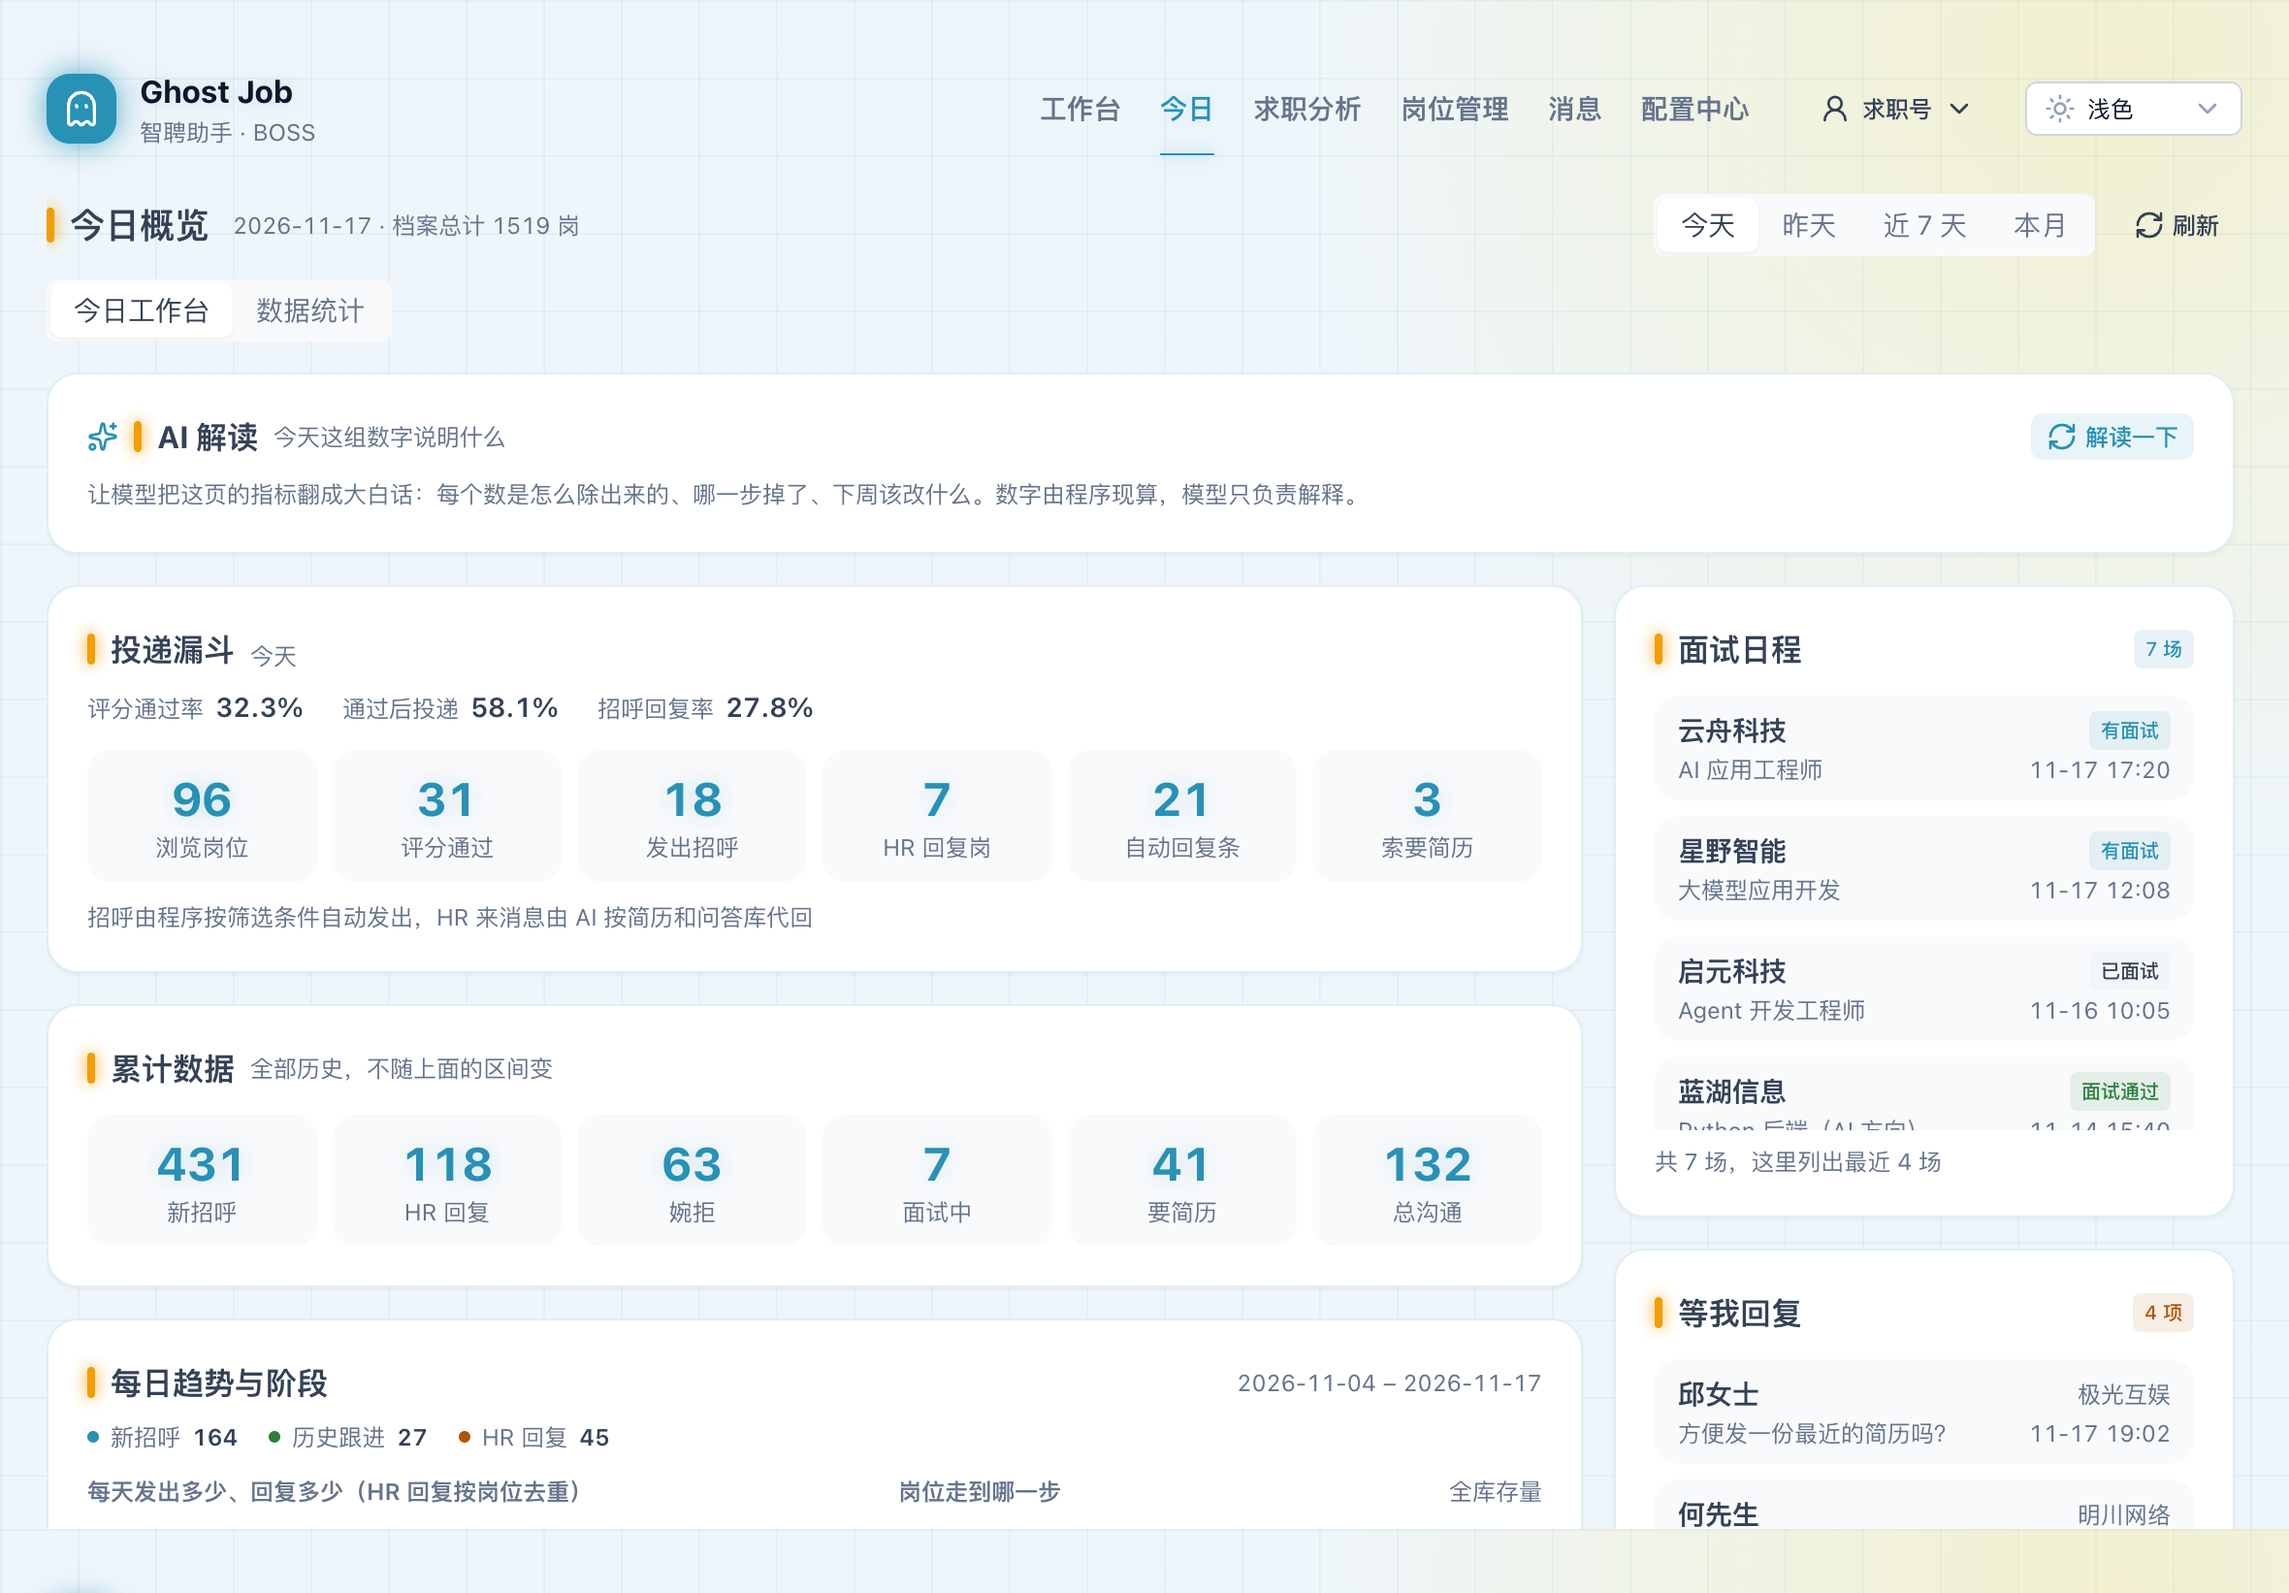
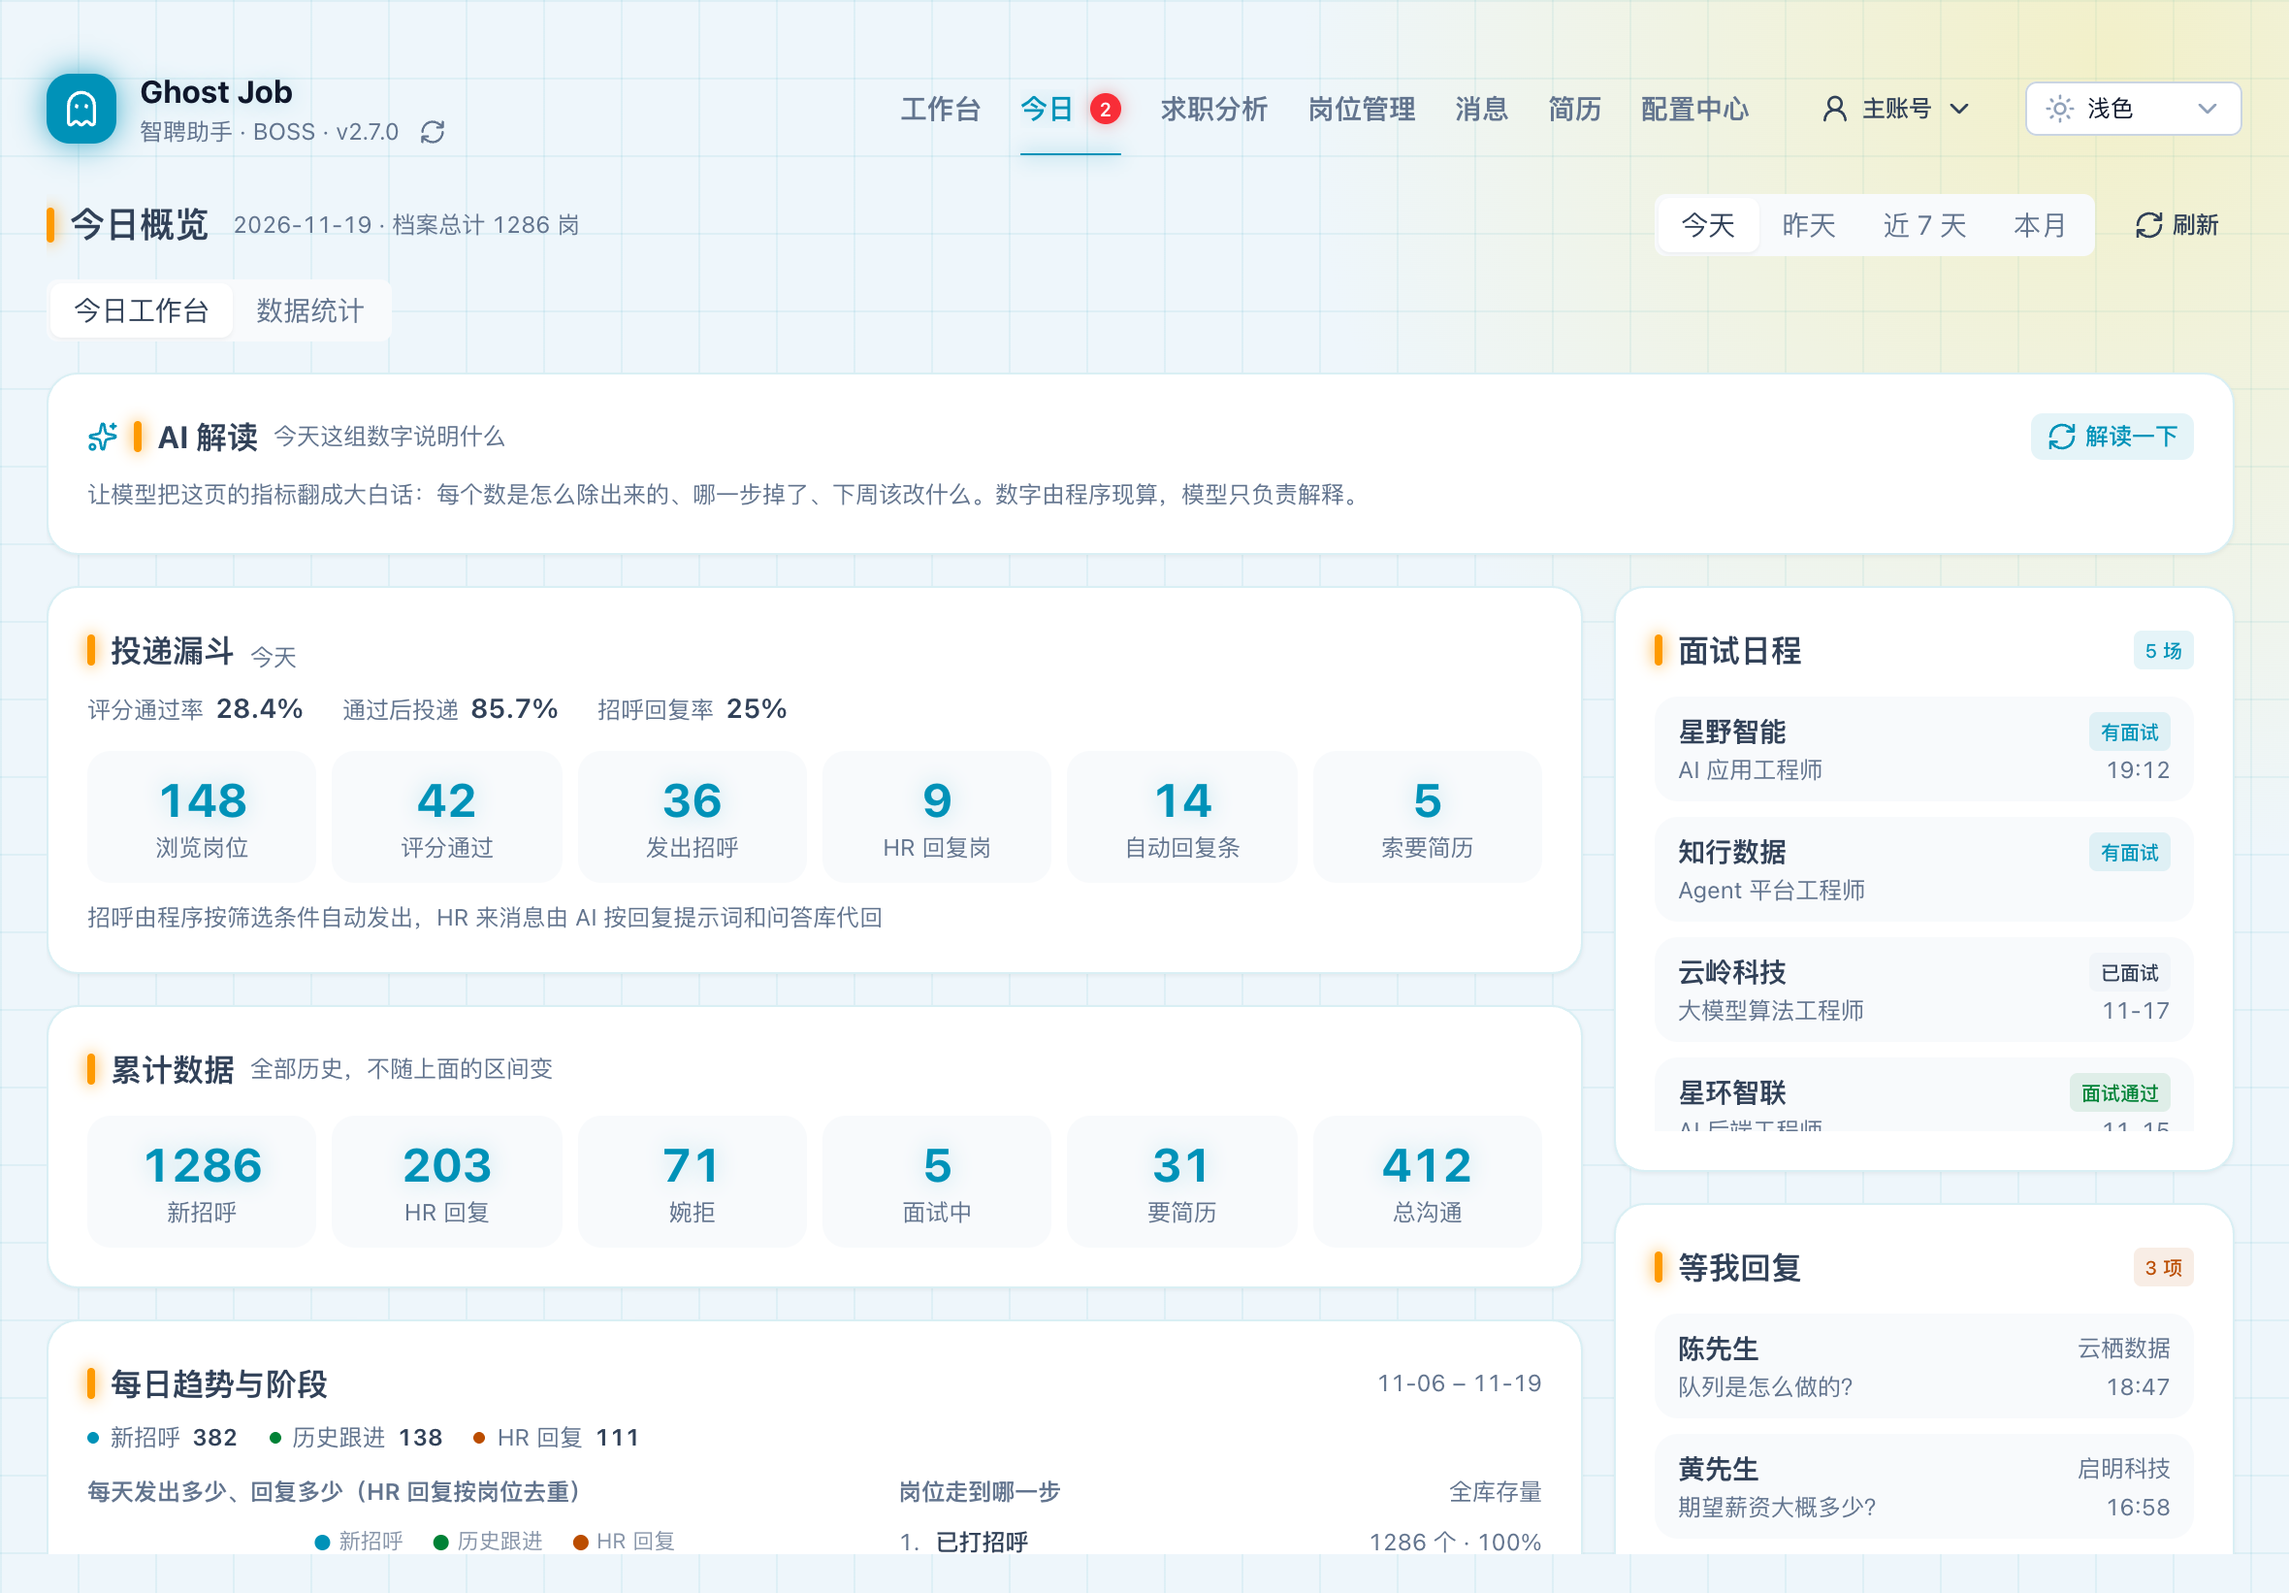
docs: 重拍截图，今日面试日程按新逻辑展示

diff --git a/README.md b/README.md
@@ -347,10 +347,10 @@ Ghost Job is a free desktop app (Windows / macOS / Linux) that automates job app
 
 投完一轮后打开顶部的 **今日**，看看今天到底投了多少、回了多少、卡在哪一步。顶部可以切今天 / 昨天 / 近 7 天 / 本月；下面两个子标签：
 
-- **今日工作台**：投递漏斗（浏览 → 评分通过 → 招呼 → HR 回复 → 自动回复 → 索要简历）、累计数据、每日趋势与阶段、沟通结果；右侧是面试日程、等你回复的 HR 消息，以及当前的求职配置摘要。面试日程按沟通状态列出所有面试（有面试 / 已面试 / 面试通过 / 面试不通过），只标了状态、本地还没聊天记录的会话也会列出来
+- **今日工作台**：投递漏斗（浏览 → 评分通过 → 招呼 → HR 回复 → 自动回复 → 索要简历）、累计数据、每日趋势与阶段、沟通结果；右侧是面试日程、等你回复的 HR 消息，以及当前的求职配置摘要。面试日程按沟通状态列出所有面试（有面试 / 已面试 / 面试通过 / 面试不通过），只标了状态、本地还没聊天记录的会话也会列出来，时间那一栏留空；场次多时最多列 200 场，在卡片里滚动
 - **数据统计**：16 格关键指标（通过率、招呼回复率、平均匹配分等），再加上城市分布、匹配分分布、被筛掉的原因
 
-顶部导航的 **今日** 右侧有个红色数字：当前状态是「有面试」的会话数，也就是还没开始、需要你处理的那几场；没有时不显示，超过 99 显示 99+。
+顶部导航的 **今日** 右侧有个红色数字：当前状态是「有面试」的会话数，也就是还没开始、需要你处理的那几场；还没打的面试不看本地有没有聊天记录，只看沟通状态。没有时不显示，超过 99 显示 99+，60 秒自动刷新。
 
 ![今日概览 · 工作台](assets/screenshots/today-workbench.png)
 
